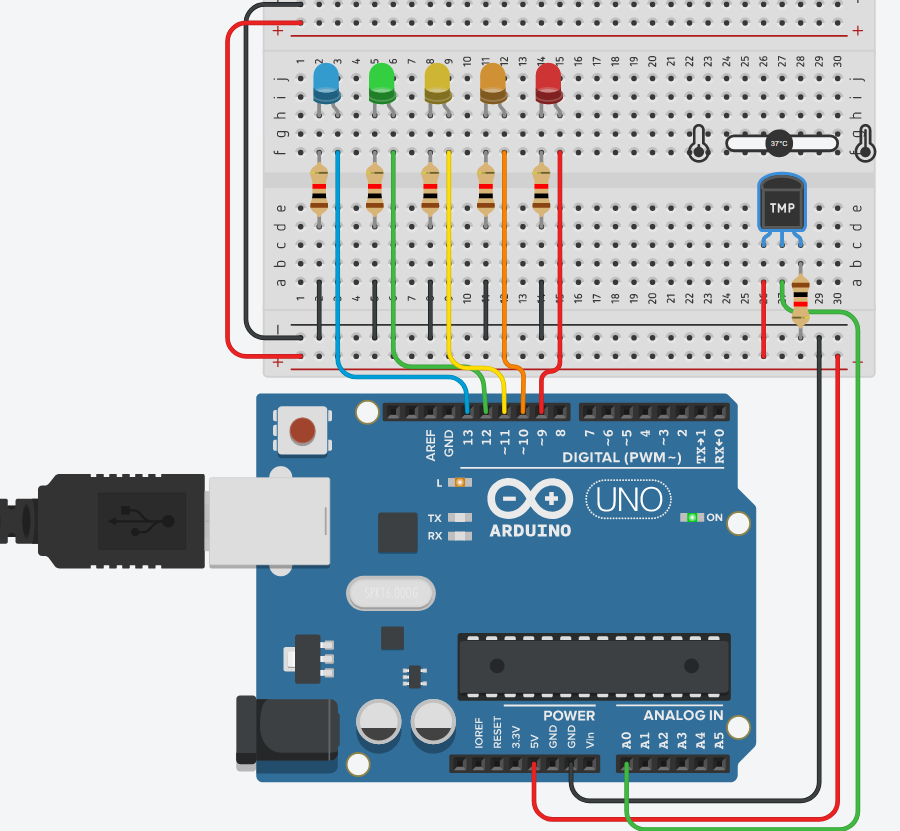
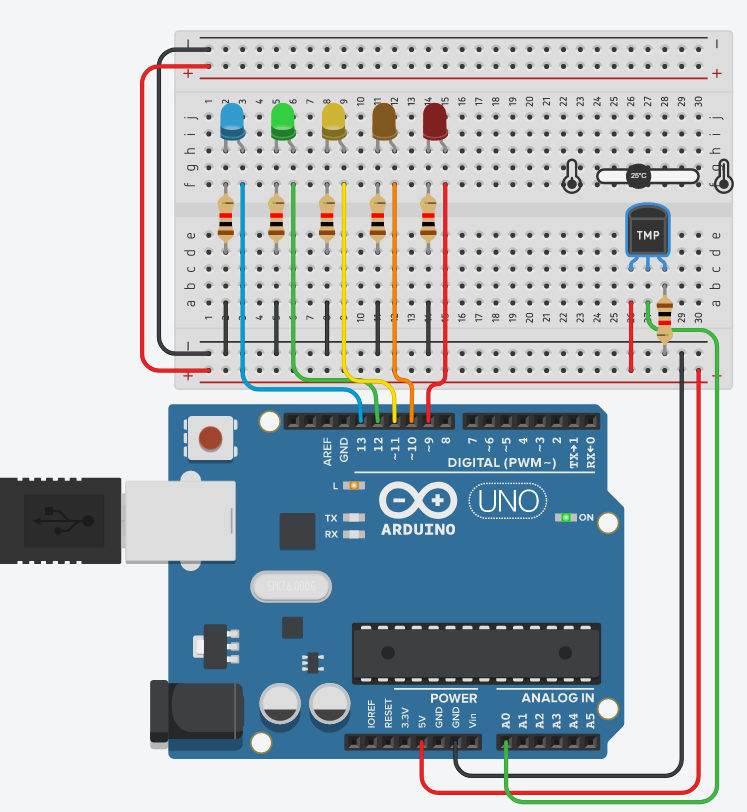
Added more accurate temperature + new image

diff --git a/wp4/exercise1.c b/wp4/exercise1.c
@@ -314,85 +314,94 @@ int red_high = 0;
 
 /************************************************************************/
 
-void setup() //Runs at start
+void setup() // Runs at start
 {
-  pinMode(A0, INPUT); //configure analog in A0 as input
-  pinMode(9, OUTPUT); //configure pin 9 as output
-  pinMode(10, OUTPUT); //configure pin 10 as output
-  pinMode(11, OUTPUT); //configure pin 11 as output
-  pinMode(12, OUTPUT); //configure pin 12 as output
-  pinMode(13, OUTPUT); //configure pin 13 as output
-  
-  Serial.begin(9600);
-  Timer1.initialize(100000); //Initialize timer with 1 second period
-  Timer1.attachInterrupt( getTemp ); //callback function to get the temperature with an interrupt on the timer
+    pinMode(A0, INPUT);  // configure analog in A0 as input
+    pinMode(9, OUTPUT);  // configure pin 9 as output
+    pinMode(10, OUTPUT); // configure pin 10 as output
+    pinMode(11, OUTPUT); // configure pin 11 as output
+    pinMode(12, OUTPUT); // configure pin 12 as output
+    pinMode(13, OUTPUT); // configure pin 13 as output
+
+    Serial.begin(9600);
+    Timer1.initialize(100000);       // Initialize timer with 1 second period
+    Timer1.attachInterrupt(getTemp); // callback function to get the temperature with an interrupt on the timer
 }
 
-void loop() //Runs until program is ended
+void loop() // Runs until program is ended
 {
-  
-  LED_conditions(); //call LED_conditions() function to check which LEDs should turn on
-  
-  delay(100); // Delay a little bit to improve simulation performance
+
+    LED_conditions(); // call LED_conditions() function to check which LEDs should turn on
+
+    delay(100); // Delay a little bit to improve simulation performance
 }
 
-void getTemp() //Function to read temperature
+void getTemp()
 {
-  temp = -40 + 0.488155 * (analogRead(A0) - 20); //Reads and set temperature (Formula copied from block code in Tinkercad)
+    int sensorReading = analogRead(A0);   // read temperature from sensor connected to Analog in A0
+    double voltage = sensorReading * 5.0; // calculation for voltage
+    voltage /= 1024.0;                    // calculation for voltage per unit
+    temp = (voltage - 0.55) * 100;        // calculation for temperature
 }
 
-void LED_conditions() //Function to check which LEDs should turn on
+void LED_conditions() // Function to check which LEDs should turn on
 {
-  blue_low = 0; //define variable lower bound for temperature range for blue light
-  blue_high = 10; //define variable higher bound for temperature range for blue light
-  green_low = 11; //define variable lower bound for temperature range for green light
-  green_high = 20; //define variable higher bound for temperature range for green light
-  yellow_low = 21; //define variable lower bound for temperature range for yellow light
-  yellow_high = 30; //define variable higher bound for temperature range for yellow light
-  orange_low = 31; //define variable lower bound for temperature range for orange light
-  orange_high = 40; //define variable higher bound for temperature range for orange light
-  red_low = 41; //define variable lower bound for temperature range for red light
-  red_high = 50; //define variable higher bound for temperature range for red light
-    if (temp >= blue_low && temp <= blue_high) { //If the temperature is within the range of blue
-    digitalWrite(9, LOW); //red is off
-    digitalWrite(10, LOW); //orange is off
-    digitalWrite(11, LOW); //yellow is off
-    digitalWrite(12, LOW); //green is off
-    digitalWrite(13, HIGH); //blue is on
-  }
-  if (temp > green_low && temp <= green_high) { //if the temperature is within the range of green, previous light is also on
-    digitalWrite(9, LOW); //red is off
-    digitalWrite(10, LOW); //orange is off
-    digitalWrite(11, LOW); //yellow is off
-    digitalWrite(12, HIGH); //green is on
-    digitalWrite(13, HIGH); //blue is on
-  }
-  if (temp > yellow_low && temp <= yellow_high) { //if the temperature is within the range of yellow, previous lights are also on
-    digitalWrite(9, LOW); //red is off
-    digitalWrite(10, LOW); //orange is off
-    digitalWrite(11, HIGH); //yellow is on
-    digitalWrite(12, HIGH); //green is on
-    digitalWrite(13, HIGH); //blue is on
-  }
-  if (temp > orange_low && temp <= orange_high) { //if the temperature is within the range of orange, previous lights are also on
-    digitalWrite(9, LOW); //red is off
-    digitalWrite(10, HIGH); //orange is on
-    digitalWrite(11, HIGH); //yellow is on
-    digitalWrite(12, HIGH); //green is on
-    digitalWrite(13, HIGH); //blue is on
-  }
-  if (temp > red_low && temp <= red_high) { //if the temperature is within the range of red, all previous lights are also on
-    digitalWrite(9, HIGH); //red is on
-    digitalWrite(10, HIGH); //orange is on
-    digitalWrite(11, HIGH); //yellow is on
-    digitalWrite(12, HIGH); //green is on
-    digitalWrite(13, HIGH); //blue is on
-  }
-  if (temp > red_high || temp < blue_low) { //If the temperature is out of range of defined temperature ranges, all lights are off
-    digitalWrite(9, LOW); //red is off
-    digitalWrite(10, LOW); //orange is off
-    digitalWrite(11, LOW); //yellow is off
-    digitalWrite(12, LOW); //green is off
-    digitalWrite(13, LOW); //blue is off
-  }
+    blue_low = 0;     // define variable lower bound for temperature range for blue light
+    blue_high = 10;   // define variable higher bound for temperature range for blue light
+    green_low = 11;   // define variable lower bound for temperature range for green light
+    green_high = 20;  // define variable higher bound for temperature range for green light
+    yellow_low = 21;  // define variable lower bound for temperature range for yellow light
+    yellow_high = 30; // define variable higher bound for temperature range for yellow light
+    orange_low = 31;  // define variable lower bound for temperature range for orange light
+    orange_high = 40; // define variable higher bound for temperature range for orange light
+    red_low = 41;     // define variable lower bound for temperature range for red light
+    red_high = 50;    // define variable higher bound for temperature range for red light
+    if (temp >= blue_low && temp <= blue_high)
+    {                           // If the temperature is within the range of blue
+        digitalWrite(9, LOW);   // red is off
+        digitalWrite(10, LOW);  // orange is off
+        digitalWrite(11, LOW);  // yellow is off
+        digitalWrite(12, LOW);  // green is off
+        digitalWrite(13, HIGH); // blue is on
+    }
+    if (temp > green_low && temp <= green_high)
+    {                           // if the temperature is within the range of green, previous light is also on
+        digitalWrite(9, LOW);   // red is off
+        digitalWrite(10, LOW);  // orange is off
+        digitalWrite(11, LOW);  // yellow is off
+        digitalWrite(12, HIGH); // green is on
+        digitalWrite(13, HIGH); // blue is on
+    }
+    if (temp > yellow_low && temp <= yellow_high)
+    {                           // if the temperature is within the range of yellow, previous lights are also on
+        digitalWrite(9, LOW);   // red is off
+        digitalWrite(10, LOW);  // orange is off
+        digitalWrite(11, HIGH); // yellow is on
+        digitalWrite(12, HIGH); // green is on
+        digitalWrite(13, HIGH); // blue is on
+    }
+    if (temp > orange_low && temp <= orange_high)
+    {                           // if the temperature is within the range of orange, previous lights are also on
+        digitalWrite(9, LOW);   // red is off
+        digitalWrite(10, HIGH); // orange is on
+        digitalWrite(11, HIGH); // yellow is on
+        digitalWrite(12, HIGH); // green is on
+        digitalWrite(13, HIGH); // blue is on
+    }
+    if (temp > red_low && temp <= red_high)
+    {                           // if the temperature is within the range of red, all previous lights are also on
+        digitalWrite(9, HIGH);  // red is on
+        digitalWrite(10, HIGH); // orange is on
+        digitalWrite(11, HIGH); // yellow is on
+        digitalWrite(12, HIGH); // green is on
+        digitalWrite(13, HIGH); // blue is on
+    }
+    if (temp > red_high || temp < blue_low)
+    {                          // If the temperature is out of range of defined temperature ranges, all lights are off
+        digitalWrite(9, LOW);  // red is off
+        digitalWrite(10, LOW); // orange is off
+        digitalWrite(11, LOW); // yellow is off
+        digitalWrite(12, LOW); // green is off
+        digitalWrite(13, LOW); // blue is off
+    }
 }
